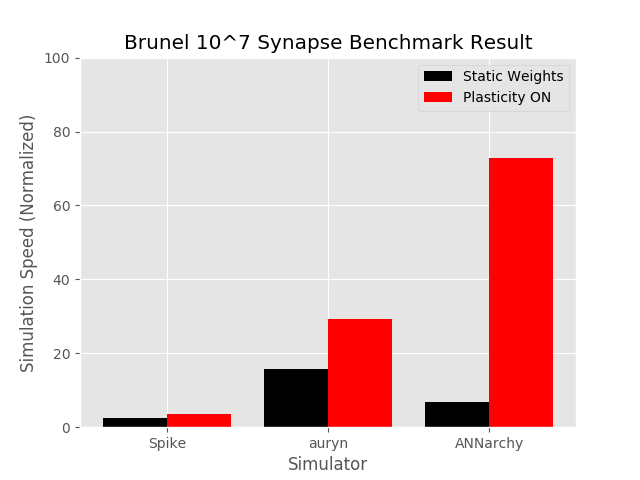
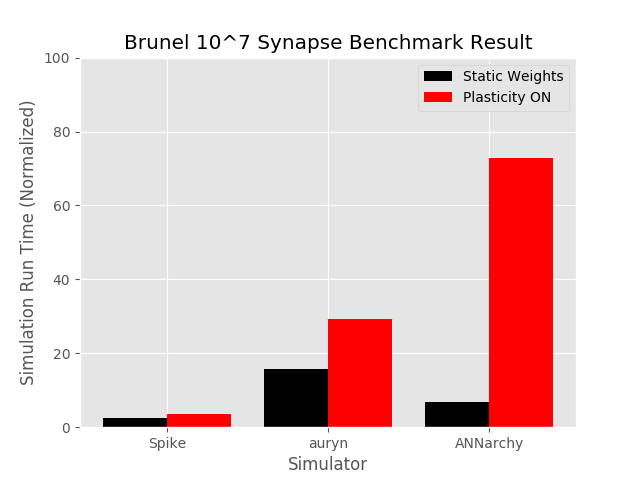
Re-labelling y-axes

Changed region(s): [[0.0312, 0.1875, 0.0625, 0.8125]]

diff --git a/Benchmarks/VogelsAbbott/_results/plotting.py b/Benchmarks/VogelsAbbott/_results/plotting.py
@@ -35,7 +35,7 @@ ax.bar(
         tick_label=simulators,
         align='center', color='k')
 ax.set_xlabel("Simulator")
-ax.set_ylabel("Simulation Speed (Normalized)")
+ax.set_ylabel("Simulation Run Time (Normalized)")
 ax.set_ylim([10.0**-2, 10.0**2])
 ax.set_yscale('log')
 fig.savefig('single_delay_comparison.png')
@@ -50,7 +50,7 @@ ax.bar(
         tick_label=simulators,
         align='center', color='k')
 ax.set_xlabel("Simulator")
-ax.set_ylabel("Simulation Speed (Normalized)")
+ax.set_ylabel("Simulation Run Time (Normalized)")
 ax.set_ylim([10.0**-2, 10.0**2])
 ax.set_yscale('log')
 fig.savefig('eight_delay_comparison.png')

diff --git a/Benchmarks/Brunel10K/_results/plotting.py b/Benchmarks/Brunel10K/_results/plotting.py
@@ -44,7 +44,7 @@ ax.bar(
 ax.set_xticks(np.arange(len(simulators)))
 ax.set_xticklabels(simulators)
 ax.set_xlabel("Simulator")
-ax.set_ylabel("Simulation Speed (Normalized)")
+ax.set_ylabel("Simulation Run Time (Normalized)")
 #ax.set_yscale('log')
 ax.set_ylim([0, 100])
 ax.legend()
